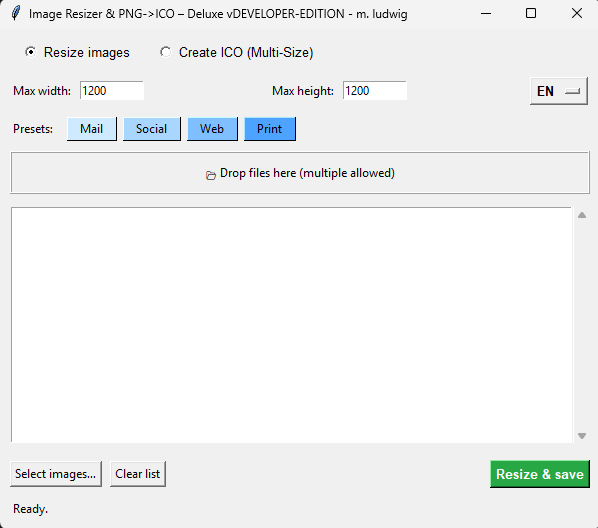
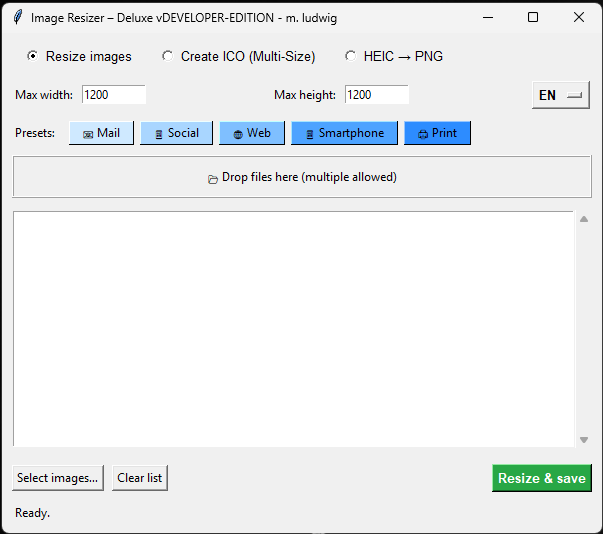
added HEIC->PNG converter

Changed region(s): [[0.0, 0.0, 1.0, 1.0], [0.2709, 0.0909, 0.5418, 0.1212], [0.5719, 0.0909, 0.7525, 0.1212]]

diff --git a/README.md b/README.md
@@ -1,12 +1,12 @@
 🖼 IRDIC - Image Resizer Deluxe & ICO Converter
-Ein schlankes, schnelles Desktop-Tool zum Verkleinern von Bildern und Erstellen von Windows-Icons – entwickelt für den produktiven Einsatz im Büroalltag. Keine Cloud, kein Upload, alles lokal und sicher.
+Ein schlankes, schnelles Desktop-Tool zum Verkleinern von Bildern und Erstellen von Windows-Icons, UPDATE: HEIC->PNG Konverter – entwickelt für den produktiven Einsatz im Büroalltag. Keine Cloud, kein Upload, alles lokal und sicher.
 
 ✨ Highlights
 📂 Drag & Drop Support: Ziehe eine oder hunderte Dateien direkt ins Fenster.
 
 🎯 Smart Presets: Vordefinierte Größen für Mail, Social Media, Web und Druck (inkl. hilfreicher Tooltips).
 
-🛠 2-in-1 Tool: Umschaltbar zwischen Bild-Resizer und professionellem ICO-Konverter.
+🛠 3-in-1 Tool: Umschaltbar zwischen Bild-Resizer und professionellem ICO-Konverter und NEU: Apple HEIC -> PNG Konverter
 
 📦 Multi-Size ICOs: Erstellt Icons, die alle Windows-Standardgrößen enthalten (16px bis 256px) – für knackscharfe Icons in jeder Ansicht.
 
